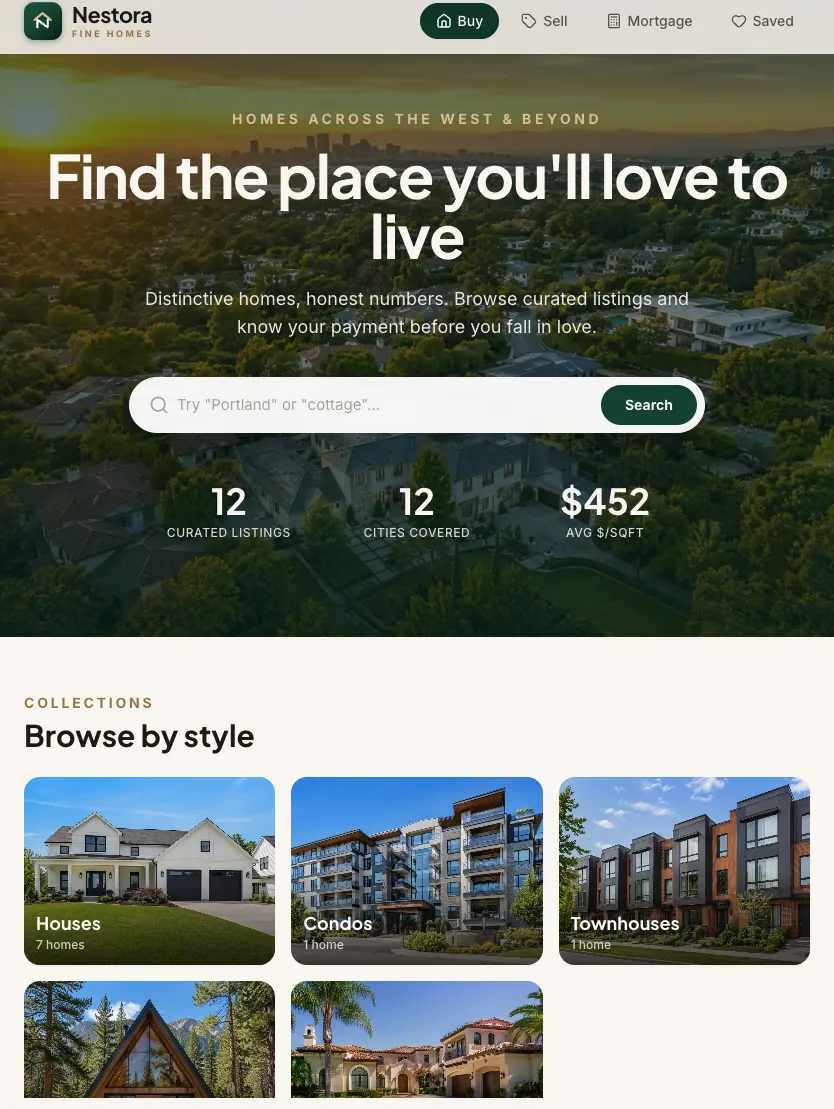
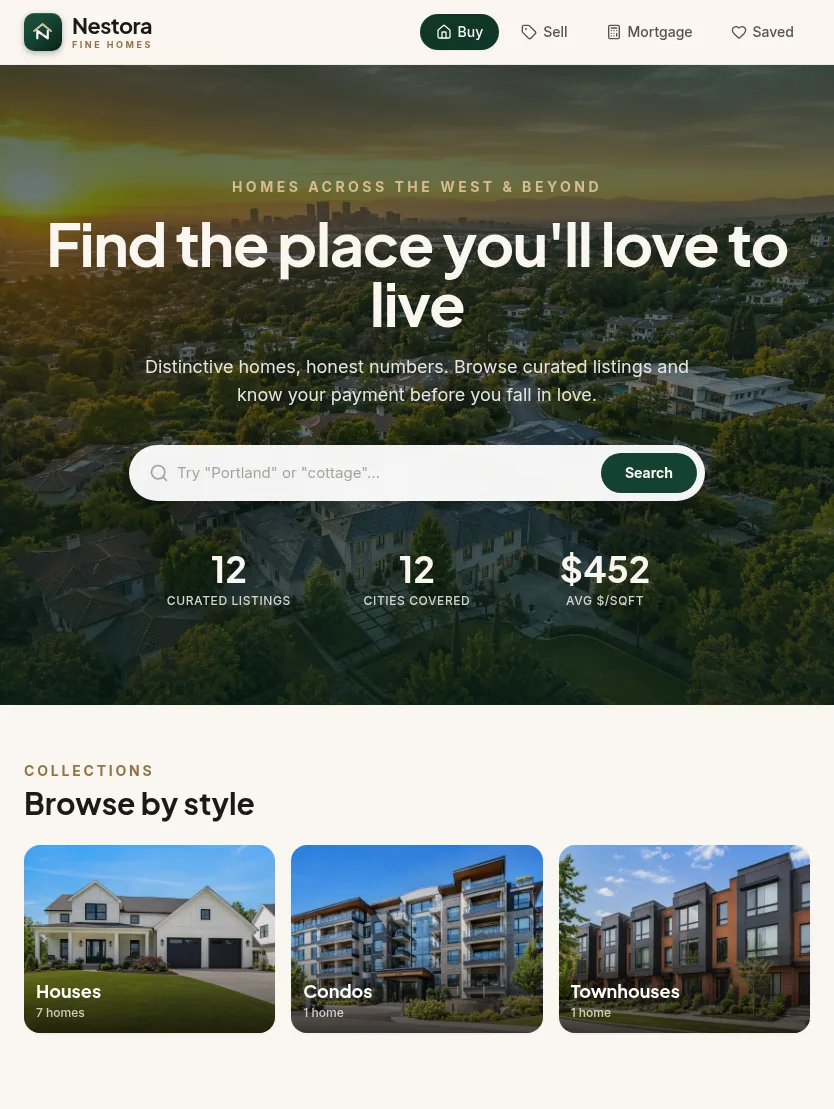
solutions mirrors: Tony's Pizza Parlor capture for the small-business walkthrough, Nestora reframed, 54/32 gap under the stats heading
The restaurant scene is a real tablet capture of the pizza template (the CMS seed's template) instead of the hand-built mock; Nestora's frame ends after the first collections row. Production's stats section has no .why-header wrapper, so the reveal div carries the same clamp(40px,6vh,72px) / 32px gap and the headline's 14px margin is netted out.

diff --git a/marketing/solutions/ai-for-small-business/index.html b/marketing/solutions/ai-for-small-business/index.html
@@ -1494,6 +1494,10 @@ html[data-theme="light"] .unlock-card::before { background: radial-gradient(240p
 .why-layout { display: flex; flex-direction: column; gap: 0; }
 .why-header { max-width: 900px; margin-bottom: clamp(40px,6vh,72px); }
 @media (max-width: 768px) { .why-header { margin-bottom: 32px; } }
+/* production's stats section has no .why-header wrapper (the reveal div is the header): same gap there (Gary, 2026-11-12 — it rendered 14px) */
+.why-layout > .dsa-reveal:not(.why-header) { margin-bottom: clamp(40px,6vh,72px); }
+.why-layout > .dsa-reveal:not(.why-header) .section-headline { margin-bottom: 0; }   /* production's 14px H2 margin would stack on the gap */
+@media (max-width: 768px) { .why-layout > .dsa-reveal:not(.why-header) { margin-bottom: 32px; } }
 /* stat grid — exact microsoft.html .success-stats */
 .why-stats-grid {
   display: grid;
@@ -3063,7 +3067,7 @@ html[data-theme] .included-section { border-top: 0; }   /* no divider between th
           <canvas class="hero-uc-canvas" id="hero-collage-c3" aria-hidden="true"></canvas>
         </a>
         </div>
-      </div> </div> </div> </section>    <section class="section why-section"> <div class="section-inner"> <div class="why-layout"> <div class="dsa-reveal"><h2 class="section-headline">Small business owners are building what they used to buy.</h2></div> <div class="why-stats-grid"> <div class="why-stat-cell"> <span class="why-stat-number">9.5M+</span> <p class="why-stat-eyebrow">Small business projects built on Bolt.new</p> </div><div class="why-stat-cell"> <span class="why-stat-number">80%</span> <p class="why-stat-eyebrow">Of builders are not developers</p> </div><div class="why-stat-cell"> <span class="why-stat-number">92%</span> <p class="why-stat-eyebrow">Ship a working version inside 24 hours</p> </div><div class="why-stat-cell"> <span class="why-stat-number">50%+</span> <p class="why-stat-eyebrow">Are non-technical founders and business owners</p> </div> </div> </div> </div> </section> <section class="section how-section section--bordered hm-steps uc2-hiw" data-business="restaurant" id="how-it-works"> <div class="section-inner"> <div class="how-header dsa-reveal"> <p class="section-eyebrow eyebrow-scramble">How it works</p> <h2 class="section-headline">Describe it. Build it. Ship it.</h2> <p class="section-sub">There&#39;s no agency or freelance developer between you and the build. Your expertise and experience shapes the app or website.</p> </div> <div class="hm-stage hm-stage--steps">
+      </div> </div> </div> </section>    <section class="section why-section"> <div class="section-inner"> <div class="why-layout"> <div class="dsa-reveal"><h2 class="section-headline">Small business owners are building what they used to buy.</h2></div> <div class="why-stats-grid"> <div class="why-stat-cell"> <span class="why-stat-number">9.5M+</span> <p class="why-stat-eyebrow">Small business projects built on Bolt.new</p> </div><div class="why-stat-cell"> <span class="why-stat-number">80%</span> <p class="why-stat-eyebrow">Of builders are not developers</p> </div><div class="why-stat-cell"> <span class="why-stat-number">92%</span> <p class="why-stat-eyebrow">Ship a working version inside 24 hours</p> </div><div class="why-stat-cell"> <span class="why-stat-number">50%+</span> <p class="why-stat-eyebrow">Are non-technical founders and business owners</p> </div> </div> </div> </div> </section> <section class="section how-section section--bordered hm-steps uc2-hiw" data-business="tonys" id="how-it-works"> <div class="section-inner"> <div class="how-header dsa-reveal"> <p class="section-eyebrow eyebrow-scramble">How it works</p> <h2 class="section-headline">Describe it. Build it. Ship it.</h2> <p class="section-sub">There&#39;s no agency or freelance developer between you and the build. Your expertise and experience shapes the app or website.</p> </div> <div class="hm-stage hm-stage--steps">
       <ol class="hm-stage-list"><li class="hm-stage-item is-active"><button type="button" class="hm-stage-btn" aria-pressed="true" data-step="0" data-visual="prompt"><span class="hm-stage-num">01</span><span class="hm-stage-copy"><span class="hm-stage-swap"><span class="hm-stage-kicker">Explain in your own words</span></span><span class="hm-stage-body"><span>Describe your idea and Bolt can start building right away.</span></span></span><span class="hm-stage-bar" aria-hidden="true"><i></i></span></button></li><li class="hm-stage-item"><button type="button" class="hm-stage-btn" aria-pressed="false" data-step="1" data-visual="build"><span class="hm-stage-num">02</span><span class="hm-stage-copy"><span class="hm-stage-swap"><span class="hm-stage-kicker">Watch Bolt build</span></span><span class="hm-stage-body"><span>Bolt builds a real, working website or app in front of you in real time.</span></span></span><span class="hm-stage-bar" aria-hidden="true"><i></i></span></button></li><li class="hm-stage-item"><button type="button" class="hm-stage-btn" aria-pressed="false" data-step="2" data-visual="wired"><span class="hm-stage-num">03</span><span class="hm-stage-copy"><span class="hm-stage-swap"><span class="hm-stage-kicker">No backend configuration</span></span><span class="hm-stage-body"><span>Whether your site needs payments, a user database, auth, or something else, Bolt automatically configures the backend for you.</span></span></span><span class="hm-stage-bar" aria-hidden="true"><i></i></span></button></li><li class="hm-stage-item"><button type="button" class="hm-stage-btn" aria-pressed="false" data-step="3" data-visual="secure"><span class="hm-stage-num">04</span><span class="hm-stage-copy"><span class="hm-stage-swap"><span class="hm-stage-kicker">Secure by design</span></span><span class="hm-stage-body"><span>All your data is secure by default. Bolt’s security agent automatically finds and fixes issues as you build.</span></span></span><span class="hm-stage-bar" aria-hidden="true"><i></i></span></button></li><li class="hm-stage-item"><button type="button" class="hm-stage-btn" aria-pressed="false" data-step="4" data-visual="deploy"><span class="hm-stage-num">05</span><span class="hm-stage-copy"><span class="hm-stage-swap"><span class="hm-stage-kicker">Publish in one click</span></span><span class="hm-stage-body"><span>Go live in one click. No hosting setup or configuration necessary.</span></span></span><span class="hm-stage-bar" aria-hidden="true"><i></i></span></button></li></ol>
       <div class="hm-stage-view"></div>
     </div> </div> </section> <section class="section uc2-pg" id="example-prompts">
@@ -5125,6 +5129,35 @@ window.addEventListener('load', function () {
    "line": "#2a2a28",
    "ink": "#f3f0e8",
    "muted": "#8f8f88"
+  }
+ },
+ "tonys": {
+  "layout": "shot",
+  "name": "Tony's Pizza Parlor",
+  "mark": "flame",
+  "site": "tonyspizzaparlor.com",
+  "shot": "../../use-cases/images/prompt-results/pizzeria.webp",
+  "shotWb": "../../use-cases/images/presets/tonys-tablet.webp",
+  "prompt": "A website for my restaurant with the menu and table reservations",
+  "reply": "Your restaurant site is ready, with the menu and table booking. What's next?",
+  "followUps": [
+   "Add a private dining page",
+   "Show today's specials",
+   "Send reminders by text"
+  ],
+  "services": [
+   "Hosting",
+   "Database",
+   "Email",
+   "Auth"
+  ],
+  "colors": {
+   "brand": "#c8102e",
+   "brandDeep": "#9c0d24",
+   "ground": "#fbf4e8",
+   "line": "#ead9c4",
+   "ink": "#2a1a14",
+   "muted": "#8a7266"
   }
  },
  "nestora": {

diff --git a/marketing/solutions/ai-for-agencies/index.html b/marketing/solutions/ai-for-agencies/index.html
@@ -1494,6 +1494,10 @@ html[data-theme="light"] .unlock-card::before { background: radial-gradient(240p
 .why-layout { display: flex; flex-direction: column; gap: 0; }
 .why-header { max-width: 900px; margin-bottom: clamp(40px,6vh,72px); }
 @media (max-width: 768px) { .why-header { margin-bottom: 32px; } }
+/* production's stats section has no .why-header wrapper (the reveal div is the header): same gap there (Gary, 2026-11-12 — it rendered 14px) */
+.why-layout > .dsa-reveal:not(.why-header) { margin-bottom: clamp(40px,6vh,72px); }
+.why-layout > .dsa-reveal:not(.why-header) .section-headline { margin-bottom: 0; }   /* production's 14px H2 margin would stack on the gap */
+@media (max-width: 768px) { .why-layout > .dsa-reveal:not(.why-header) { margin-bottom: 32px; } }
 /* stat grid — exact microsoft.html .success-stats */
 .why-stats-grid {
   display: grid;
@@ -3059,7 +3063,7 @@ html[data-theme] .included-section { border-top: 0; }   /* no divider between th
         </div>
         <div class="hero-collage-col">
         <a class="hero-uc-card sc-on-dark" href="https://bolt.new/use-cases/appointment-booking-app-builder">
-          <img class="hero-uc-img" src="../../images/people/agencies-right.webp" alt="An agency owner with a laptop" style="object-position:50% 20%" loading="eager" decoding="async">
+          <img class="hero-uc-img" src="../../images/people/agencies-right.webp" alt="An agency lead holding a laptop in a studio" style="object-position:50% 30%" loading="eager" decoding="async">
           <canvas class="hero-uc-canvas" id="hero-collage-c3" aria-hidden="true"></canvas>
         </a>
         </div>
@@ -5125,6 +5129,35 @@ window.addEventListener('load', function () {
    "line": "#2a2a28",
    "ink": "#f3f0e8",
    "muted": "#8f8f88"
+  }
+ },
+ "tonys": {
+  "layout": "shot",
+  "name": "Tony's Pizza Parlor",
+  "mark": "flame",
+  "site": "tonyspizzaparlor.com",
+  "shot": "../../use-cases/images/prompt-results/pizzeria.webp",
+  "shotWb": "../../use-cases/images/presets/tonys-tablet.webp",
+  "prompt": "A website for my restaurant with the menu and table reservations",
+  "reply": "Your restaurant site is ready, with the menu and table booking. What's next?",
+  "followUps": [
+   "Add a private dining page",
+   "Show today's specials",
+   "Send reminders by text"
+  ],
+  "services": [
+   "Hosting",
+   "Database",
+   "Email",
+   "Auth"
+  ],
+  "colors": {
+   "brand": "#c8102e",
+   "brandDeep": "#9c0d24",
+   "ground": "#fbf4e8",
+   "line": "#ead9c4",
+   "ink": "#2a1a14",
+   "muted": "#8a7266"
   }
  },
  "nestora": {

diff --git a/solutions/smb/index.html b/solutions/smb/index.html
@@ -1493,6 +1493,10 @@ html[data-theme="light"] .unlock-card::before { background: radial-gradient(240p
 .why-layout { display: flex; flex-direction: column; gap: 0; }
 .why-header { max-width: 900px; margin-bottom: clamp(40px,6vh,72px); }
 @media (max-width: 768px) { .why-header { margin-bottom: 32px; } }
+/* production's stats section has no .why-header wrapper (the reveal div is the header): same gap there (Gary, 2026-11-12 — it rendered 14px) */
+.why-layout > .dsa-reveal:not(.why-header) { margin-bottom: clamp(40px,6vh,72px); }
+.why-layout > .dsa-reveal:not(.why-header) .section-headline { margin-bottom: 0; }   /* production's 14px H2 margin would stack on the gap */
+@media (max-width: 768px) { .why-layout > .dsa-reveal:not(.why-header) { margin-bottom: 32px; } }
 /* stat grid — exact microsoft.html .success-stats */
 .why-stats-grid {
   display: grid;
@@ -5170,6 +5174,35 @@ window.addEventListener('load', function () {
    "line": "#2a2a28",
    "ink": "#f3f0e8",
    "muted": "#8f8f88"
+  }
+ },
+ "tonys": {
+  "layout": "shot",
+  "name": "Tony's Pizza Parlor",
+  "mark": "flame",
+  "site": "tonyspizzaparlor.com",
+  "shot": "../../marketing/use-cases/images/prompt-results/pizzeria.webp",
+  "shotWb": "../../marketing/use-cases/images/presets/tonys-tablet.webp",
+  "prompt": "A website for my restaurant with the menu and table reservations",
+  "reply": "Your restaurant site is ready, with the menu and table booking. What's next?",
+  "followUps": [
+   "Add a private dining page",
+   "Show today's specials",
+   "Send reminders by text"
+  ],
+  "services": [
+   "Hosting",
+   "Database",
+   "Email",
+   "Auth"
+  ],
+  "colors": {
+   "brand": "#c8102e",
+   "brandDeep": "#9c0d24",
+   "ground": "#fbf4e8",
+   "line": "#ead9c4",
+   "ink": "#2a1a14",
+   "muted": "#8a7266"
   }
  },
  "nestora": {

diff --git a/marketing/solutions/ai-for-entrepreneurs/index.html b/marketing/solutions/ai-for-entrepreneurs/index.html
@@ -1494,6 +1494,10 @@ html[data-theme="light"] .unlock-card::before { background: radial-gradient(240p
 .why-layout { display: flex; flex-direction: column; gap: 0; }
 .why-header { max-width: 900px; margin-bottom: clamp(40px,6vh,72px); }
 @media (max-width: 768px) { .why-header { margin-bottom: 32px; } }
+/* production's stats section has no .why-header wrapper (the reveal div is the header): same gap there (Gary, 2026-11-12 — it rendered 14px) */
+.why-layout > .dsa-reveal:not(.why-header) { margin-bottom: clamp(40px,6vh,72px); }
+.why-layout > .dsa-reveal:not(.why-header) .section-headline { margin-bottom: 0; }   /* production's 14px H2 margin would stack on the gap */
+@media (max-width: 768px) { .why-layout > .dsa-reveal:not(.why-header) { margin-bottom: 32px; } }
 /* stat grid — exact microsoft.html .success-stats */
 .why-stats-grid {
   display: grid;
@@ -5124,6 +5128,35 @@ window.addEventListener('load', function () {
    "line": "#2a2a28",
    "ink": "#f3f0e8",
    "muted": "#8f8f88"
+  }
+ },
+ "tonys": {
+  "layout": "shot",
+  "name": "Tony's Pizza Parlor",
+  "mark": "flame",
+  "site": "tonyspizzaparlor.com",
+  "shot": "../../use-cases/images/prompt-results/pizzeria.webp",
+  "shotWb": "../../use-cases/images/presets/tonys-tablet.webp",
+  "prompt": "A website for my restaurant with the menu and table reservations",
+  "reply": "Your restaurant site is ready, with the menu and table booking. What's next?",
+  "followUps": [
+   "Add a private dining page",
+   "Show today's specials",
+   "Send reminders by text"
+  ],
+  "services": [
+   "Hosting",
+   "Database",
+   "Email",
+   "Auth"
+  ],
+  "colors": {
+   "brand": "#c8102e",
+   "brandDeep": "#9c0d24",
+   "ground": "#fbf4e8",
+   "line": "#ead9c4",
+   "ink": "#2a1a14",
+   "muted": "#8a7266"
   }
  },
  "nestora": {

diff --git a/marketing/solutions/ai-for-real-estate/index.html b/marketing/solutions/ai-for-real-estate/index.html
@@ -1494,6 +1494,10 @@ html[data-theme="light"] .unlock-card::before { background: radial-gradient(240p
 .why-layout { display: flex; flex-direction: column; gap: 0; }
 .why-header { max-width: 900px; margin-bottom: clamp(40px,6vh,72px); }
 @media (max-width: 768px) { .why-header { margin-bottom: 32px; } }
+/* production's stats section has no .why-header wrapper (the reveal div is the header): same gap there (Gary, 2026-11-12 — it rendered 14px) */
+.why-layout > .dsa-reveal:not(.why-header) { margin-bottom: clamp(40px,6vh,72px); }
+.why-layout > .dsa-reveal:not(.why-header) .section-headline { margin-bottom: 0; }   /* production's 14px H2 margin would stack on the gap */
+@media (max-width: 768px) { .why-layout > .dsa-reveal:not(.why-header) { margin-bottom: 32px; } }
 /* stat grid — exact microsoft.html .success-stats */
 .why-stats-grid {
   display: grid;
@@ -5041,6 +5045,35 @@ window.addEventListener('load', function () {
    "line": "#2a2a28",
    "ink": "#f3f0e8",
    "muted": "#8f8f88"
+  }
+ },
+ "tonys": {
+  "layout": "shot",
+  "name": "Tony's Pizza Parlor",
+  "mark": "flame",
+  "site": "tonyspizzaparlor.com",
+  "shot": "../../use-cases/images/prompt-results/pizzeria.webp",
+  "shotWb": "../../use-cases/images/presets/tonys-tablet.webp",
+  "prompt": "A website for my restaurant with the menu and table reservations",
+  "reply": "Your restaurant site is ready, with the menu and table booking. What's next?",
+  "followUps": [
+   "Add a private dining page",
+   "Show today's specials",
+   "Send reminders by text"
+  ],
+  "services": [
+   "Hosting",
+   "Database",
+   "Email",
+   "Auth"
+  ],
+  "colors": {
+   "brand": "#c8102e",
+   "brandDeep": "#9c0d24",
+   "ground": "#fbf4e8",
+   "line": "#ead9c4",
+   "ink": "#2a1a14",
+   "muted": "#8a7266"
   }
  },
  "nestora": {

diff --git a/tools/build-sol-mirror.py b/tools/build-sol-mirror.py
@@ -204,7 +204,7 @@ if _w >= 0:
     }
     SLUG_KIT = {
       'ai-for-entrepreneurs':  {'hiw': 'prism',      'prompts': ['marketing', 'photo', 'coach', 'calendar']},
-      'ai-for-small-business': {'hiw': 'restaurant', 'prompts': ['restaurant', 'pos', 'queue', 'business']},
+      'ai-for-small-business': {'hiw': 'tonys', 'prompts': ['restaurant', 'pos', 'queue', 'business']},
       'ai-for-agencies':       {'hiw': 'noir',       'prompts': ['agency-site', 'fashion', 'client-site', 'saas']},
       'ai-for-real-estate':    {'hiw': 'nestora',    'prompts': ['re-property', 're-portfolio', 're-listings', 're-buyer']},
     }
